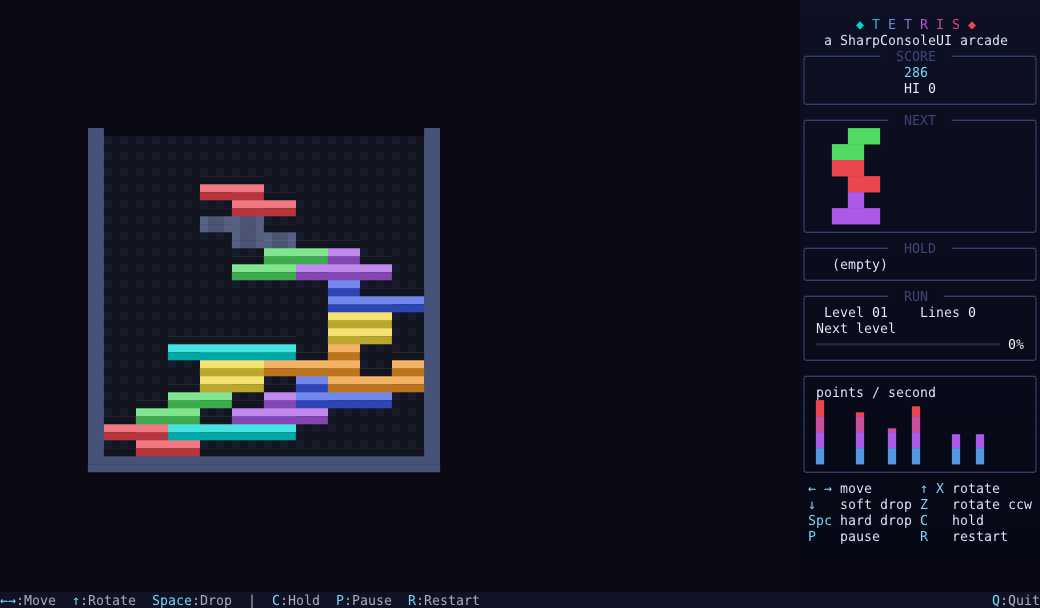
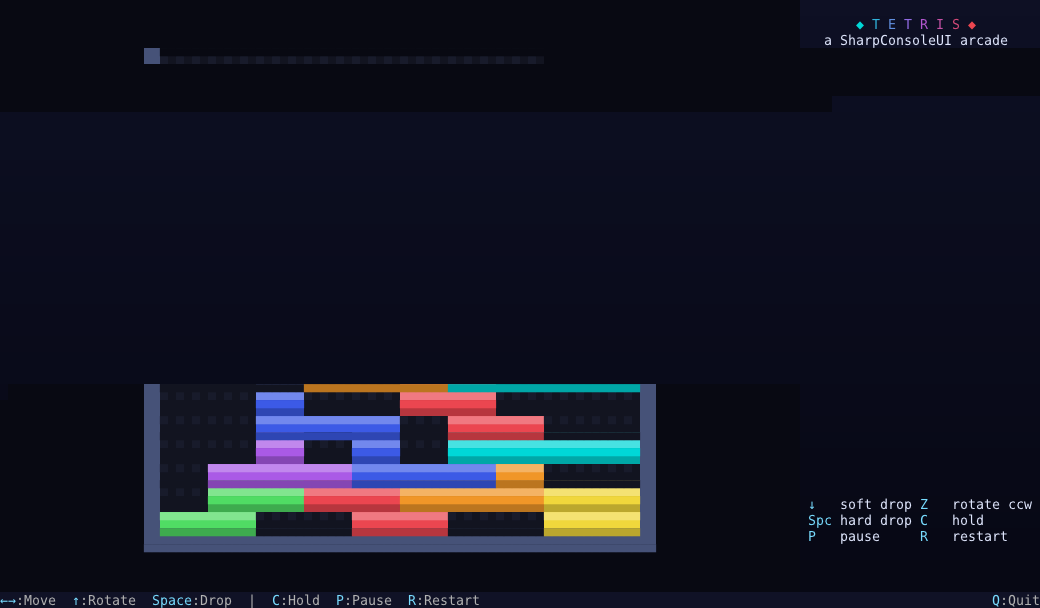
Grow the Tetris well to fill the window
The board was drawn at a fixed 4x2-pixel cell, so a tall terminal got the
same small well with empty space under it rather than a board that used
the height it was given.

The 2:1 cell is now scaled by whatever both axes can afford, up to a cap,
and the pair scales together so cells stay square. The scale also accounts
for the well's own frame, which runs a pixel above the first row and two
below the last: without that the board overflowed the window at the larger
sizes.

Dropped the HUD column reservation with it. The canvas is already its own
column in the layout grid with the HUD in the next one, so subtracting the
HUD width here reserved it twice and squeezed the board into the corner.

Screenshots retaken at the new size.

diff --git a/Examples/Tetris/Renderer.cs b/Examples/Tetris/Renderer.cs
@@ -20,23 +20,29 @@ namespace Tetris;
 internal sealed class Renderer
 {
 	/// <summary>
-	/// Pixels per board cell, horizontally and vertically, at the largest size. A pixel here is
-	/// a whole terminal column wide and half a row tall, so a square cell needs twice as many
-	/// pixels across as down: 4x2 is four columns by one row. Equal numbers would draw the
-	/// board squashed to half its height.
+	/// The shape of one board cell, in surface pixels. A pixel here is a whole terminal column
+	/// wide and half a row tall, so a square cell needs twice as many pixels across as down:
+	/// this 2:1 pair is the unit the board is scaled in, and scaling it as a unit is what keeps
+	/// cells square. Equal numbers would draw the board squashed to half its height.
 	/// </summary>
-	private const int MaxCellW = 4;
-	private const int MaxCellH = 2;
+	private const int CellUnitW = 2;
+	private const int CellUnitH = 1;
 
 	/// <summary>
-	/// The smallest the pair may shrink to before the board stops reading as a grid. Kept in
-	/// the same 2:1 ratio, so a cramped terminal gets a smaller board rather than a squashed one.
+	/// How many units a cell may grow to. Four is 8x4 pixels, an eight-column cell, which is
+	/// as large as the board reads well at; beyond that it is a wall of colour.
 	/// </summary>
-	private const int MinCellW = 2;
-	private const int MinCellH = 1;
+	private const int MaxCellScale = 4;
 
-	/// <summary>Columns held back for the HUD, so the sidebar never overlaps the well.</summary>
-	private const int HudColumns = 34;
+	/// <summary>
+	/// Pixels the well's own frame needs beyond the playfield itself: the wall runs one pixel
+	/// above the first row, the floor is two pixels thick below the last, and a little air is
+	/// left above and below so neither sits flush against the window edge.
+	/// </summary>
+	private const int WellFramePixels = 8;
+
+	/// <summary>Columns the side walls take, two on each side of the playfield.</summary>
+	private const int WellFrameColumns = 4;
 
 	private readonly PixelSurface _surface = new();
 
@@ -69,28 +75,34 @@ internal sealed class Renderer
 			shakeY = (int)Math.Round(Math.Cos(phase * 1.3) * fx.Shake * 0.6);
 		}
 
-		// Twenty rows of a 2-pixel-tall cell need forty pixels, and a 39-row terminal gives
-		// seventy-eight, so the full size usually fits. It does not always: a short terminal
-		// would run the board off the bottom, and a narrow one would run it under the HUD.
-		// So the cell is scaled down by whichever axis runs out first, keeping the 2:1 ratio
-		// that makes it square - shrinking one axis alone would squash the well.
-		int steps = Math.Min(
-			(_surface.Height - 4) / (Game.Rows * MaxCellH),
-			(_surface.Width - HudColumns) / (Game.Columns * MaxCellW));
+		// Grow the cell to fill the terminal rather than drawing a fixed small board in the
+		// middle of it: the 2:1 unit is multiplied by whatever both axes can afford, so a tall
+		// window gets a tall well instead of the same postage stamp with empty space under it.
+		// Whichever axis runs out first decides, and the pair scales together so cells stay
+		// square - growing or shrinking one alone would squash the board.
+		// The canvas is its own column in the layout grid, with the HUD in the next one, so the
+		// width here is already the well's to use: subtracting the HUD again would reserve it
+		// twice and squeeze the board into a corner.
+		int scale = Math.Min(
+			(_surface.Height - WellFramePixels) / (Game.Rows * CellUnitH),
+			(_surface.Width - WellFrameColumns) / (Game.Columns * CellUnitW));
 
-		int cellW = steps >= 1 ? MaxCellW : MinCellW;
-		int cellH = steps >= 1 ? MaxCellH : MinCellH;
+		scale = Math.Clamp(scale, 1, MaxCellScale);
+
+		int cellW = CellUnitW * scale;
+		int cellH = CellUnitH * scale;
 
 		game.CellWidth = cellW;
 		game.CellHeight = cellH;
 		int wellWidth = Game.Columns * cellW;
 		int wellHeight = Game.Rows * cellH;
-		// Centre the well in the space it actually owns, not the whole surface: the HUD takes
-		// the right-hand columns, so centring across the full width would push the board under
-		// it on a wide terminal and leave the left margin oversized.
-		int playWidth = Math.Max(wellWidth, _surface.Width - HudColumns);
-		int originX = Math.Max(2, (playWidth - wellWidth) / 2);
-		int originY = Math.Max(1, (_surface.Height - wellHeight) / 2);
+		// The frame sits outside the playfield, so centre the framed box and then step in by
+		// the wall's own width: centring the playfield alone leaves the left wall clipped
+		// against the window edge.
+		int framedWidth = wellWidth + WellFrameColumns;
+		int originX = Math.Max(WellFrameColumns / 2,
+			(_surface.Width - framedWidth) / 2 + WellFrameColumns / 2);
+		int originY = Math.Max(2, (_surface.Height - wellHeight) / 2);
 
 		// Overlays belong over the board, not over the whole surface: the HUD owns the right
 		// columns, so centring a title on the surface would hang it off the well's edge.

diff --git a/docs/EXAMPLES.md b/docs/EXAMPLES.md
@@ -647,9 +647,10 @@ dotnet run --project Examples/Tetris -- --headless --socket --width 130 --height
 ```
 
 A pixel on the half-block surface is a whole column wide and half a row tall, so a square
-board cell needs twice as many pixels across as down. The well scales that 4x2 pair down as a
-unit when the terminal is too short or too narrow for it, which keeps the board square instead
-of squashing it, and reserves the HUD's columns so the sidebar never overlaps the playfield.
+board cell needs twice as many pixels across as down. The well scales that 2:1 unit up or down
+by whatever both axes can afford, so a tall window gets a tall board rather than a fixed small
+one adrift in empty space, and the pair always scales together, which is what keeps the cells
+square instead of squashing one axis.
 
 **Key Features:**
 - SRS rotation with wall kicks, so a piece rotating against a wall or the stack shifts into the gap rather than refusing
